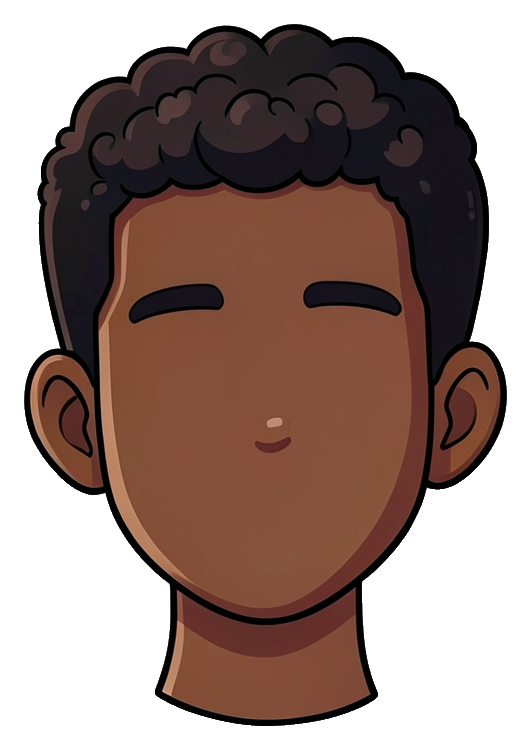
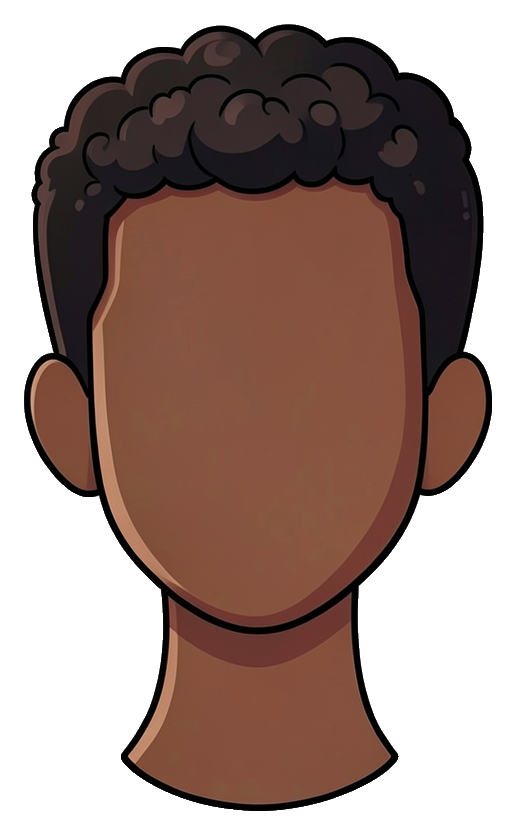
cook2: fix double ears and customer z-order; add time-travel + poser debug harness
- Puppets were never assigned the customer render layer, so they drew above
  the counter and the soda machine. They now sit behind the counter overlay.
- klein bakes ears (or an erased-ear skin patch) into every head it draws,
  even when asked not to. Rigged ears are now drawn in front of the head
  with per-character placement/size that covers the remnant; heads
  regenerated with a blank-face/no-ears edit pass (seed 52018).
- Debug harness ported from cook.html / the museum harness: ?debug panel,
  freeze / step / stepMs / resetT, and a poser studio that isolates any
  puppet, item, plate, station or sprite on a solid, gradient or grid
  backdrop with zoom, pan, part dump and layer show/hide (__cook.help()).

Claude-Session: https://claude.ai/code/session_01WuSoS4Z57H2YF2W7ZJy8so

Changed region(s): [[0.031, 0.0307, 0.9612, 0.9813], [0.4651, 0.552, 0.5581, 0.6133], [0.8062, 0.2147, 0.8372, 0.2453]]

diff --git a/cook2.html b/cook2.html
@@ -11,7 +11,7 @@
 <meta name="theme-color" content="#1c5c6e">
 <script>
 (function(){
-  function isUi(e){var t=e.target;return !!(t&&t.closest&&t.closest('button,input,select,textarea,a,.overlay,.panel,#story,#hud .r'));}
+  function isUi(e){var t=e.target;return !!(t&&t.closest&&t.closest('button,input,select,textarea,a,.overlay,.panel,#story,#hud .r,#dbgPanel,#dbgToggle'));}
   function block(e){if(e.touches&&e.touches.length>1)e.preventDefault();else if(!isUi(e))e.preventDefault();}
   var o={passive:false,capture:true};
   ['touchstart','touchmove','touchend','touchcancel','gesturestart','gesturechange','gestureend'].forEach(function(t){document.addEventListener(t,block,o);});
@@ -80,6 +80,15 @@ button:active{transform:translateY(2px);box-shadow:0 1px 0 rgba(0,0,0,.15)}
 #story input[type=range]{flex:1}
 #story input[type=number]{width:56px;background:#0e1620;color:#fff;border:1px solid #2f4a68;border-radius:6px;padding:3px 5px}
 #story .kv{font-family:ui-monospace,monospace;font-size:11.5px;color:#8fd3ff;white-space:pre-wrap}
+/* ---------- debug harness (?debug) ---------- */
+#dbgToggle{position:fixed;right:calc(10px + env(safe-area-inset-right,0px));bottom:calc(10px + env(safe-area-inset-bottom,0px));z-index:30;background:#1d2436;color:#cfe3ff;border:1px solid #3a4a75;border-radius:10px;padding:6px 12px;font-size:13px;font-weight:600;cursor:pointer}
+#dbgPanel{position:fixed;right:10px;bottom:48px;z-index:30;background:#1d2436ee;color:#cfe3ff;border:1px solid #3a4a75;border-radius:14px;padding:12px 14px;font-size:13px;width:270px;display:none}
+#dbgPanel.open{display:block}
+#dbgPanel .row{display:flex;gap:6px;margin-top:8px;flex-wrap:wrap;align-items:center}
+#dbgPanel button{background:#2c3a5e;color:#fff;border:1px solid #46598f;border-radius:8px;padding:5px 9px;font-size:12.5px;cursor:pointer;box-shadow:none}
+#dbgPanel .lbl{color:#8fa5d6;font-size:11.5px;margin-top:8px;line-height:1.5;font-family:ui-monospace,monospace;white-space:pre-wrap}
+#dbgPanel input,#dbgPanel select{background:#10162a;color:#fff;border:1px solid #46598f;border-radius:7px;padding:4px 6px;font-size:12.5px}
+#dbgPanel input[type=number]{width:56px}#dbgPanel input[type=text]{width:150px}
 </style>
 </head>
 <body>
@@ -132,6 +141,16 @@ button:active{transform:translateY(2px);box-shadow:0 1px 0 rgba(0,0,0,.15)}
   <div class="panel"><h1>Paused</h1><div class="row"><button class="big" id="resumeBtn">Resume</button><button class="ghost" id="quitBtn">Quit to menu</button></div></div>
 </div>
 <div id="toast"></div>
+<button id="dbgToggle" class="hidden">⏱ Debug</button>
+<div id="dbgPanel">
+  <b style="font-size:14px">Time-Travel Control</b>
+  <div class="row"><button id="dbgFreeze">⏸ Freeze</button><span>steps:</span><input type="number" id="dbgSteps" value="1" min="1" max="6000"></div>
+  <div class="row"><button id="dbgStep1">▶ +1</button><button id="dbgStepN">▶ +N</button><button id="dbgResetT">↺ Reset T</button></div>
+  <b style="font-size:14px;display:block;margin-top:10px">Poser (studio)</b>
+  <div class="row"><input type="text" id="poseSpec" value="puppet:man" placeholder="puppet:man | item:patty:cooked | key:grill"><button id="poseGo">Pose</button><button id="poseExit">Exit</button></div>
+  <div class="row"><select id="poseBg"><option value="white">white</option><option value="#333">dark</option><option value="gradient">gradient</option><option value="grid">grid</option><option value="#0f0">green</option></select><span>zoom</span><input type="number" id="poseZoom" value="1" min="0.1" max="20" step="0.1"></div>
+  <div class="lbl" id="dbgInfo">frozen: false · T=0.00s</div>
+</div>
 
 <script type="module">
 import * as THREE from 'https://cdn.jsdelivr.net/npm/three@0.160.0/build/three.module.js';
@@ -271,8 +290,8 @@ function applySize(){
   view={w,h,fw,fh};
   if(bgSprite){const s=Math.max(fw/W,fh/H);bgSprite.scale.set(W*s,H*s,1);counterSprite.scale.set(W*s,counterH*s,1);counterSprite.position.y=(-H/2)*s+counterH*s/2;}
 }
-addEventListener('resize',applySize);
-visualViewport&&visualViewport.addEventListener('resize',applySize);
+addEventListener('resize',()=>{applySize();if(typeof Pose!=='undefined'&&Pose.active)Pose.frame();});
+visualViewport&&visualViewport.addEventListener('resize',()=>{applySize();if(typeof Pose!=='undefined'&&Pose.active)Pose.frame();});
 const geoCache={};
 function planeGeo(ax=.5,ay=.5){const k=ax+','+ay;if(!geoCache[k]){const g=new THREE.PlaneGeometry(1,1);g.translate(.5-ax,.5-ay,0);geoCache[k]=g;}return geoCache[k];}
 /** Sprite: textured plane. w in design px, height from image aspect. anchor (ax,ay) in [0..1], (0.5,0)=bottom-center. */
@@ -321,27 +340,28 @@ function makeBar(w=90,h=14){
    puppet rig: paper-doll customer, tweened between FRONT and SIDE poses
    ====================================================================== */
 const CHAR={
-  man:  {bodyW:250,headW:150,headY:238,headTilt:0,skin:0x6b3f24},
-  woman:{bodyW:240,headW:150,headY:236,headTilt:0,skin:0xf2c9a8},
+  // ear: front-pose placement/size per character, chosen to cover whatever ear remnant klein baked into the head
+  man:  {bodyW:250,headW:150,headY:238,skin:0x6b3f24,ear:{x:.45,y:-.01,w:.2}},
+  woman:{bodyW:240,headW:150,headY:236,skin:0xf2c9a8,ear:{x:.37,y:.06,w:.17}},
 };
 // part transforms as fractions of head width (x,y) ; sx/sy scale ; rot ; a alpha
 const POSE={
   front:{
-    earL:{x:-.47,y:-.05,sx:1,sy:1,rot:0,a:1}, earR:{x:.47,y:-.05,sx:-1,sy:1,rot:0,a:1},
+    earL:{x:-.45,y:-.01,sx:1,sy:1,rot:0,a:1}, earR:{x:.45,y:-.01,sx:-1,sy:1,rot:0,a:1},
     eyeL:{x:-.16,y:.03,sx:1,sy:1,rot:0,a:1},  eyeR:{x:.16,y:.03,sx:-1,sy:1,rot:0,a:1},
     browL:{x:-.17,y:.16,sx:1,sy:1,rot:.05,a:1},browR:{x:.17,y:.16,sx:-1,sy:1,rot:-.05,a:1},
     nose:{x:0,y:-.09,sx:1,sy:1,rot:0,a:1},     mouth:{x:0,y:-.25,sx:1,sy:1,rot:0,a:1},
     head:{x:0,y:0,sx:1,sy:1,rot:0,a:1},
   },
   side:{ // facing left (−x)
-    earL:{x:-.2,y:-.04,sx:.4,sy:1,rot:0,a:0}, earR:{x:.27,y:-.05,sx:-1,sy:1,rot:0,a:1},
+    earL:{x:-.2,y:-.04,sx:.4,sy:1,rot:0,a:0}, earR:{x:.30,y:0,sx:-1,sy:1,rot:0,a:1},
     eyeL:{x:-.33,y:.03,sx:.55,sy:1,rot:0,a:1}, eyeR:{x:-.09,y:.03,sx:-.9,sy:1,rot:0,a:1},
     browL:{x:-.34,y:.16,sx:.55,sy:1,rot:.1,a:1},browR:{x:-.1,y:.16,sx:-.9,sy:1,rot:-.02,a:1},
-    nose:{x:-.42,y:-.09,sx:.8,sy:1,rot:.1,a:1}, mouth:{x:-.25,y:-.25,sx:.7,sy:1,rot:.05,a:1},
+    nose:{x:-.36,y:-.09,sx:.8,sy:1,rot:.1,a:1}, mouth:{x:-.25,y:-.25,sx:.7,sy:1,rot:.05,a:1},
     head:{x:0,y:0,sx:1,sy:1,rot:0,a:1},
   },
 };
-const PART_W={ear:.17,eye:.17,brow:.2,nose:.11,mouth:.17};
+const PART_W={ear:.2,eye:.17,brow:.2,nose:.11,mouth:.17};
 const EXPR={ // brow offsets (dy in head-w units, rot inner-up positive), mouth key, eye sy
   neutral:{browDy:0,browRot:0,mouth:'mouth_neutral',eyeSy:1},
   happy:  {browDy:.04,browRot:.05,mouth:'mouth_smile',eyeSy:1},
@@ -362,7 +382,7 @@ class Puppet{
     this.headG.position.y=this.c.headY;
     this.parts={};
     const add=(name,key,w,sub)=>{const s=sprite(key,{w:hw*w});s.userData.sub=sub;this.headG.add(s);this.parts[name]=s;return s;};
-    this.parts.earL=add('earL',charId+'_ear',PART_W.ear,0);this.parts.earR=add('earR',charId+'_ear',PART_W.ear,0);
+    this.parts.earL=add('earL',charId+'_ear',this.c.ear.w,1.5);this.parts.earR=add('earR',charId+'_ear',this.c.ear.w,1.5);
     this.headF=add('headF',charId+'_head_front',1,1);this.headS=add('headS',charId+'_head_side',1,1);
     this.parts.head=this.headF;
     add('eyeL','eye_open',PART_W.eye,2);add('eyeR','eye_open',PART_W.eye,2);
@@ -374,6 +394,7 @@ class Puppet{
     this.gaze={x:0,y:0};this.blink=0;this.blinkNext=1.5+Math.random()*3;
     this.walk=0;this.walkPhase=Math.random()*6;this.bob=0;this.time=0;this.facing=1; // facing: 1 = left, -1 = right
     this.layer=L.CUST;
+    this.setLayer(L.CUST);
     this.apply();
   }
   setLayer(l){this.layer=l;setLayer(this.g,l);}
@@ -406,6 +427,7 @@ class Puppet{
       const a=A[name],b=B[name],p=this.parts[name];if(!p)continue;
       let x=lerp(a.x,b.x,t),y=lerp(a.y,b.y,t),sx=lerp(a.sx,b.sx,t),sy=lerp(a.sy,b.sy,t),rot=lerp(a.rot,b.rot,t),al=lerp(a.a,b.a,t);
       const isL=name.endsWith('L');
+      if(name.startsWith('ear')){const e=this.c.ear;x=lerp(isL?-e.x:e.x,b.x,t);y=lerp(e.y,b.y,t);}
       if(name.startsWith('eye')){x+=gx;y+=gy;sy*=eyeSy;if(this.blink>0)sy*=.12;}
       if(name.startsWith('brow')){y+=browDy+gy*.5;x+=gx*.7;rot+=isL?browRot:-browRot;}
       if(name==='mouth'||name==='nose'){x+=gx*.5;y+=gy*.5;}
@@ -416,8 +438,9 @@ class Puppet{
     }
     // head / body crossfade between front and side textures
     this.headF.material.opacity=1-t;this.headS.material.opacity=t;this.headS.position.copy(this.headF.position);this.headS.scale.copy(this.headF.scale);this.headS.rotation.copy(this.headF.rotation);
-    this.headS.visible=t>.01;this.headF.visible=t<.99;
-    this.bodyF.material.opacity=1-t;this.bodyS.material.opacity=t;this.bodyS.visible=t>.01;this.bodyF.visible=t<.99;
+    this.headS.visible=t>.01&&!this._hideHead;this.headF.visible=t<.99&&!this._hideHead;
+    this.bodyF.material.opacity=1-t;this.bodyS.material.opacity=t;this.bodyS.visible=t>.01&&!this._hideBody;this.bodyF.visible=t<.99&&!this._hideBody;
+    if(this._hideEars){this.parts.earL.visible=this.parts.earR.visible=false;}
     // eye sprite: closed texture during blink
     const eyeKey=this.blink>0?'eye_closed':'eye_open';
     if(this.parts.eyeL.userData.key!==eyeKey){setTex(this.parts.eyeL,eyeKey);setTex(this.parts.eyeR,eyeKey);}
@@ -754,7 +777,7 @@ function serveCustomer(c,it){
 const ndcTmp={x:0,y:0};
 let pDown=null;
 function onDown(e){
-  if(e.target.closest&&e.target.closest('button,.overlay,.panel,#story,#hud .r'))return;
+  if(e.target.closest&&e.target.closest('button,.overlay,.panel,#story,#hud .r,#dbgPanel,#dbgToggle'))return;
   if(e.cancelable)e.preventDefault();
   if(!G.inputEnabled())return;
   Audio.ensure();
@@ -854,7 +877,7 @@ try{const s=localStorage.getItem(SAVE_KEY);if(s)SAVE=Object.assign(SAVE,JSON.par
 const save=()=>{try{localStorage.setItem(SAVE_KEY,JSON.stringify(SAVE));}catch(e){}};
 const G={
   mode:'menu',level:1,cfg:null,coins:0,score:0,served:0,lost:0,time:0,elapsed:0,queue:[],spawnIdx:0,nextSpawnAt:0,
-  inputEnabled(){return this.mode==='playing'||this.mode==='story';},
+  inputEnabled(){return this.mode==='playing'||this.mode==='story'||this.mode==='pose';},
   addCoins(n,x,y,{fly=false}={}){this.coins+=n;this.score+=n;floatText(x,y,'+'+n,'coin');if(fly)flyCoins(x,y,Math.min(8,2+Math.round(n/6)));else bumpHud();updateHUD();},
   onServed:null,
 };
@@ -1004,7 +1027,7 @@ page('Customers rig','Paper-puppet customers: ear/eye/brow mirrored across the v
   slider(body,'gaze x',-1,1,0,.01,v=>P.forEach(p=>{killTweens(p.gaze);p.gaze.x=v;}));
   slider(body,'gaze y',-1,1,0,.01,v=>P.forEach(p=>{killTweens(p.gaze);p.gaze.y=v;}));
   slider(body,'head Y',150,320,CHAR.man.headY,1,v=>P.forEach(p=>{p.c.headY=v;}));
-  slider(body,'head W',90,220,CHAR.man.headW,1,v=>P.forEach(p=>{p.c.headW=v;for(const n in p.parts){const s=p.parts[n];const fw=n.startsWith('ear')?PART_W.ear:n.startsWith('eye')?PART_W.eye:n.startsWith('brow')?PART_W.brow:n==='nose'?PART_W.nose:n==='mouth'?PART_W.mouth:1;setSize(s,v*fw);}setSize(p.headS,v);}));
+  slider(body,'head W',90,220,CHAR.man.headW,1,v=>P.forEach(p=>{p.c.headW=v;for(const n in p.parts){const s=p.parts[n];const fw=n.startsWith('ear')?p.c.ear.w:n.startsWith('eye')?PART_W.eye:n.startsWith('brow')?PART_W.brow:n==='nose'?PART_W.nose:n==='mouth'?PART_W.mouth:1;setSize(s,v*fw);}setSize(p.headS,v);}));
   ctl(body,[['Turn to side',()=>P.forEach(p=>p.turn(1))],['Turn to front',()=>P.forEach(p=>p.turn(0))],['Face right ⟲',()=>P.forEach(p=>p.face(-p.facing))]]);
   ctl(body,[['Blink',()=>P.forEach(p=>p.doBlink())],['Smile',()=>P.forEach(p=>p.setExpr('happy'))],['Frown',()=>P.forEach(p=>p.setExpr('sad'))],['Angry',()=>P.forEach(p=>p.setExpr('angry'))],['Surprised',()=>P.forEach(p=>p.setExpr('surprised'))],['Talk',()=>P.forEach(p=>p.setExpr('talk'))],['Neutral',()=>P.forEach(p=>p.setExpr('neutral'))]]);
   ctl(body,[['Look left',()=>P.forEach(p=>p.look(-1,0))],['Look right',()=>P.forEach(p=>p.look(1,0))],['Look up',()=>P.forEach(p=>p.look(0,1))],['Look down',()=>P.forEach(p=>p.look(0,-1))],['Center',()=>P.forEach(p=>p.look(0,0))]]);
@@ -1038,18 +1061,118 @@ window.__cook={hit(x,y){const h=hitTest(x,y);return h&&(h.owner.constructor.name
   state(){return {mode:G.mode,sel:selected&&selected.kind+':'+selected.state,items:scene.children.length,customers:customers.map(c=>c.state+':'+c.dish+':'+c.patience.toFixed(2)),stations:stations.map(s=>s.constructor.name+(s.slots?':'+s.slots.map(x=>x.item?x.item.kind+'/'+x.item.state:(x.item===null&&x.pan?'-':'plate['+(x.item&&x.item.stack||[]).join('+')+']')).join(','):'')),coins:G.coins,served:G.served};},
   G,scene,customers,stations};
 /* ======================================================================
-   main loop
+   main loop + time-travel debug harness (ported from cook.html / museum harness.js)
    ====================================================================== */
-let last=performance.now();
-function frame(){
-  const now=performance.now();const dt=Math.min(.05,(now-last)/1000);last=now;
+const Time={T:0,frozen:false,frames:0,dt:1/60,last:performance.now(),
+  advance(){const now=performance.now();const wall=Math.min(.1,(now-this.last)/1000);this.last=now;if(this.frozen)return 0;this.T+=wall;this.frames++;return wall;},
+  info(){return {frozen:this.frozen,T:+this.T.toFixed(4),frames:this.frames,dt:this.dt,mode:G.mode};},
+  freeze(v=true){this.frozen=!!v;this.last=performance.now();render();dbgInfoUpdate();return this.info();},
+  unfreeze(){return this.freeze(false);},toggle(){return this.freeze(!this.frozen);},
+  step(n=1){this.frozen=true;n=Math.max(1,Math.min(6000,n|0));for(let i=0;i<n;i++){this.T+=this.dt;this.frames++;tick(this.dt);}render();dbgInfoUpdate();return this.info();},
+  stepMs(ms){return this.step(Math.max(1,Math.round(ms/(this.dt*1000))));},
+  resetT(){this.T=0;this.frames=0;render();dbgInfoUpdate();return this.info();},
+};
+const poseTicks=[];   // objects with update(dt) that live only in the poser studio
+function tick(dt){
   updateTweens(dt);
   if(G.mode==='playing')updateGame(dt);
   else if(G.mode==='story'){updateWorld(dt);storyTick&&storyTick(dt);}
   else if(G.mode==='menu')updateWorld(dt);
-  renderer.render(scene,camera);
-  requestAnimationFrame(frame);
+  else if(G.mode==='pose'){updateWorld(dt);for(const o of poseTicks)o.update(dt);}
 }
+function render(){renderer.render(scene,camera);}
+function frame(){const dt=Time.advance();if(dt>0)tick(dt);render();requestAnimationFrame(frame);}
+
+/* ---------- poser: isolate one object on a studio backdrop ---------- */
+function backdropTexture(kind,opts={}){
+  const cv=document.createElement('canvas');cv.width=cv.height=512;const g=cv.getContext('2d');
+  if(kind==='gradient'){const [a,b]=opts.colors||['#e8f4ff','#7fb2d8'];const gr=g.createLinearGradient(0,0,0,512);gr.addColorStop(0,a);gr.addColorStop(1,b);g.fillStyle=gr;g.fillRect(0,0,512,512);}
+  else if(kind==='grid'){const [a,b]=opts.colors||['#ffffff','#d8dde3'];const n=opts.cells||16,c=512/n;g.fillStyle=a;g.fillRect(0,0,512,512);g.fillStyle=b;for(let y=0;y<n;y++)for(let x=0;x<n;x++)if((x+y)%2)g.fillRect(x*c,y*c,c,c);g.strokeStyle='rgba(0,0,0,.18)';g.lineWidth=1;for(let i=0;i<=n;i++){g.beginPath();g.moveTo(i*c,0);g.lineTo(i*c,512);g.stroke();g.beginPath();g.moveTo(0,i*c);g.lineTo(512,i*c);g.stroke();}}
+  else{g.fillStyle=kind||'#ffffff';g.fillRect(0,0,512,512);}
+  const t=new THREE.CanvasTexture(cv);t.colorSpace=THREE.SRGBColorSpace;return t;
+}
+const Pose={
+  active:false,obj:null,spec:null,plane:null,saved:null,zoom:1,
+  /** spec: 'puppet:man' | 'customer:woman:burger' | 'item:patty:cooked' | 'plate:bun_bottom+patty+bun_top' | 'station:grill' | 'key:hud_star_on' | any asset key */
+  enter(spec,{bg='white',zoom=1,colors,cells}={}){
+    if(this.active)this.exit();
+    this.saved={mode:G.mode,hud:$('hud').className,story:$('story').className,menu:$('menu').className,children:scene.children.slice(),vis:scene.children.map(c=>c.visible)};
+    for(const c of scene.children)c.visible=false;
+    $('hud').classList.add('hidden');$('story').classList.add('hidden');$('menu').classList.add('hidden');$('end').classList.add('hidden');
+    G.mode='pose';this.active=true;this.spec=spec;poseTicks.length=0;
+    this.plane=new THREE.Mesh(planeGeo(),new THREE.MeshBasicMaterial({map:backdropTexture(bg,{colors,cells}),depthTest:false}));this.plane.renderOrder=-10;this.plane.scale.set(W*20,H*20,1);scene.add(this.plane);
+    const [type,a,b]=spec.split(':');
+    let o;
+    if(type==='puppet'){const p=new Puppet(a||'man');scene.add(p.g);poseTicks.push(p);o=p;o.root=p.g;}
+    else if(type==='customer'){const c=new Customer(a||'man',b||'burger',60,1);killTweens(c.p.g.position);c.p.g.position.set(0,-120,0);c.p.walk=0;c.p.pose=0;c.state='waiting';c.bub.visible=true;c.bub.scale.setScalar(1);c.bub.position.set(-150,150,0);o=c;o.root=c.p.g;}
+    else if(type==='item'){const it=new Item(a,b||'raw',0,0);o=it;o.root=it.g;}
+    else if(type==='plate'){const it=new Item('plate','empty',0,0);it.stack=(a||'').split('+').filter(Boolean);it.refresh();o=it;o.root=it.g;}
+    else if(type==='station'){buildKitchen({grillSlots:3});const st=stations.find(x=>x.constructor.name.toLowerCase()===(a||'grill').toLowerCase()||(x.spr&&x.spr.userData.key===a));for(const x of stations)if(x!==st&&x.spr)x.spr.visible=false;o=st||stations[0];o.root=o.spr;}
+    else{const key=type==='key'?a:spec;const sp=sprite(key,{w:400,layer:L.ITEM});scene.add(sp);o={root:sp};}
+    this.obj=o;this.zoom=zoom;this.pan={x:0,y:0};this.frame();render();
+    return this.info();
+  },
+  frame(){ // center on the object's bounds, scale the view so it fills ~70% of the height
+    if(!this.obj||!this.obj.root)return;scene.updateMatrixWorld();
+    const b=new THREE.Box3().setFromObject(this.obj.root);const c=b.getCenter(new THREE.Vector3()),sz=b.getSize(new THREE.Vector3());
+    const fit=Math.max(sz.x/(view.fw*.7),sz.y/(view.fh*.7),1e-3)/this.zoom;
+    const px=(this.pan&&this.pan.x)||0,py=(this.pan&&this.pan.y)||0;
+    camera.left=-view.fw/2*fit;camera.right=view.fw/2*fit;camera.top=view.fh/2*fit;camera.bottom=-view.fh/2*fit;camera.position.x=c.x+px;camera.position.y=c.y+py;camera.updateProjectionMatrix();
+    this.plane.position.set(c.x,c.y,0);
+  },
+  setZoom(z){this.zoom=z;this.frame();render();},
+  center(x,y){ // pan the studio camera (design units, relative to the object's bounds center)
+    this.pan={x,y};this.frame();render();},
+  setBg(bg,opts={}){if(this.plane){this.plane.material.map=backdropTexture(bg,opts);this.plane.material.needsUpdate=true;render();}},
+  info(){const b=this.obj&&this.obj.root?new THREE.Box3().setFromObject(this.obj.root):null;return {active:this.active,spec:this.spec,zoom:this.zoom,bounds:b?{x:[+b.min.x.toFixed(1),+b.max.x.toFixed(1)],y:[+b.min.y.toFixed(1),+b.max.y.toFixed(1)]}:null};},
+  show(v={}){const p=this.obj;if(!p||!p.parts)return;if('ears' in v)p._hideEars=!v.ears;if('head' in v)p._hideHead=!v.head;if('body' in v)p._hideBody=!v.body;p.apply();render();},
+  /** per-part dump for puppets: world rect of each part */
+  parts(){const p=this.obj;if(!p||!p.parts)return null;scene.updateMatrixWorld();const out={};for(const n in p.parts){const m=p.parts[n];const r=worldRect(m);out[n]={key:m.userData.key,vis:m.visible,alpha:+m.material.opacity.toFixed(2),rect:[+r.x0.toFixed(0),+r.y0.toFixed(0),+r.x1.toFixed(0),+r.y1.toFixed(0)],order:m.renderOrder};}
+    for(const n of ['headF','headS','bodyF','bodyS']){const m=p[n];const r=worldRect(m);out[n]={key:m.userData.key,vis:m.visible,alpha:+m.material.opacity.toFixed(2),rect:[+r.x0.toFixed(0),+r.y0.toFixed(0),+r.x1.toFixed(0),+r.y1.toFixed(0)],order:m.renderOrder};}return out;},
+  exit(){
+    if(!this.active)return;
+    removeObj(this.plane);this.plane=null;
+    if(this.obj){if(this.obj.dispose)this.obj.dispose();else if(this.obj.root)removeObj(this.obj.root);}
+    if(this.spec&&this.spec.startsWith('station'))clearWorld();
+    for(const c of scene.children.slice())if(!this.saved.children.includes(c))scene.remove(c);
+    this.saved.children.forEach((c,i)=>c.visible=this.saved.vis[i]);
+    $('hud').className=this.saved.hud;$('story').className=this.saved.story;$('menu').className=this.saved.menu;
+    G.mode=this.saved.mode;this.active=false;this.obj=null;poseTicks.length=0;
+    camera.position.x=0;camera.position.y=0;applySize();render();
+  },
+};
+const DBG_HELP=`__cook.dbg — time travel
+  dbg.freeze() / dbg.unfreeze() / dbg.toggle()   stop the sim (render keeps going)
+  dbg.step(n=1)        advance n frames of 1/60 s, then render
+  dbg.stepMs(ms)       advance ~ms of sim time
+  dbg.resetT()         T=0 (does not rewind world state)
+  dbg.info()           {frozen,T,frames,mode}
+  dbg.state()          world snapshot (customers, stations, coins)
+  dbg.panel(bool)      show the on-screen panel
+__cook.pose — studio
+  pose.enter(spec,{bg,zoom,colors,cells})  spec: puppet:man | customer:woman:burger | item:patty:cooked
+                                            plate:bun_bottom+patty+bun_top | station:grill | key:hud_star_on
+                                            bg: '#hex' | 'white' | 'gradient' | 'grid'  (colors:[a,b], cells:n)
+  pose.obj             the live object (e.g. pose.obj.turn(1); dbg.step(30))
+  pose.parts()         puppet part rects / textures / render order
+  pose.setBg(bg,opts)  pose.setZoom(z)  pose.center(dx,dy)  pose.frame()  pose.exit()
+  pose.show({ears:false,head:false,body:false})  hide/show puppet layers
+__cook.tapAt(x,y) / dragTo(x0,y0,x1,y1)  design-space input (0,0 = screen center, y up)`;
+function dbgInfoUpdate(){const i=Time.info();$('dbgInfo').textContent=`frozen: ${i.frozen} · T=${i.T.toFixed(2)}s · frames=${i.frames} · mode=${i.mode}`+(Pose.active?` · pose=${Pose.spec}`:'');$('dbgFreeze').textContent=i.frozen?'▶ Resume':'⏸ Freeze';}
+$('dbgToggle').onclick=()=>$('dbgPanel').classList.toggle('open');
+$('dbgFreeze').onclick=()=>Time.toggle();
+$('dbgStep1').onclick=()=>Time.step(1);
+$('dbgStepN').onclick=()=>Time.step(parseInt($('dbgSteps').value)||1);
+$('dbgResetT').onclick=()=>Time.resetT();
+$('poseGo').onclick=()=>Pose.enter($('poseSpec').value.trim(),{bg:$('poseBg').value,zoom:parseFloat($('poseZoom').value)||1});
+$('poseExit').onclick=()=>Pose.exit();
+$('poseBg').onchange=()=>Pose.active&&Pose.setBg($('poseBg').value);
+$('poseZoom').onchange=()=>Pose.active&&Pose.setZoom(parseFloat($('poseZoom').value)||1);
+addEventListener('keydown',e=>{if(e.target.matches('input,textarea,select'))return;if(e.key==='f')Time.toggle();if(e.key==='.')Time.step(1);if(e.key==='>')Time.step(10);});
+if(new URLSearchParams(location.search).has('debug')){$('dbgToggle').classList.remove('hidden');$('dbgPanel').classList.add('open');}
+window.__cook.dbg=Object.assign(Time,{state:()=>window.__cook.state(),panel(v=true){$('dbgPanel').classList.toggle('open',v);},help(){console.log(DBG_HELP);return DBG_HELP;}});
+window.__cook.pose=Pose;window.__cook.help=()=>DBG_HELP;
+
 (async()=>{
   const el=$('menuLevel');el.textContent='Loading assets…';
   await loadAll(p=>{el.textContent='Loading '+Math.round(p*100)+'%';});
@@ -1058,6 +1181,7 @@ function frame(){
   buildBackground();applySize();syncFsButton();
   showMenu();
   if(location.hash.startsWith('#story')){const n=parseInt(location.hash.slice(6))||0;openStory(n);}
+  Time.last=performance.now();dbgInfoUpdate();
   frame();
 })();
 </script>

diff --git a/assetgen/README.md b/assetgen/README.md
@@ -127,6 +127,13 @@ folder. The second batch added, all in one evening:
   - Face parts contain white, so they are generated on a green background with `cutout: key`. The key colour is
     sampled from the image corners because klein paints a muted green rather than the exact colour asked for.
 
+**Debug harness in cook2.html** (ported from cook.html and the museum harness): open `cook2.html?debug` for the
+time-travel panel (freeze, +1, +N frames of 1/60 s, reset T; keys `f` / `.` / `>`) and the poser. From the console,
+`__cook.help()` lists everything: `__cook.dbg.step(n)`, `__cook.pose.enter('puppet:man',{bg:'grid',zoom:3})`,
+`pose.show({ears:false})`, `pose.center(dx,dy)`, `pose.parts()`. Backdrops: any CSS colour, `'gradient'` or `'grid'`.
+This is how the double-ear bug was found: klein bakes ears (or an erased-ear skin patch) into every head it draws,
+so the rigged ears are drawn in front of the head with per-character placement that covers the remnant.
+
 New manifest features from this round: per-asset `template` / `state_template`, `bg`, `cutout: rembg|key|none`,
 per-asset `refs`, and state values may be objects `{text, refs, seed}`.
 
